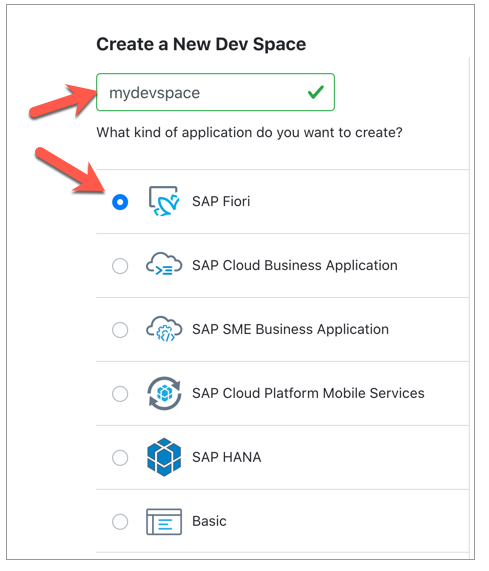
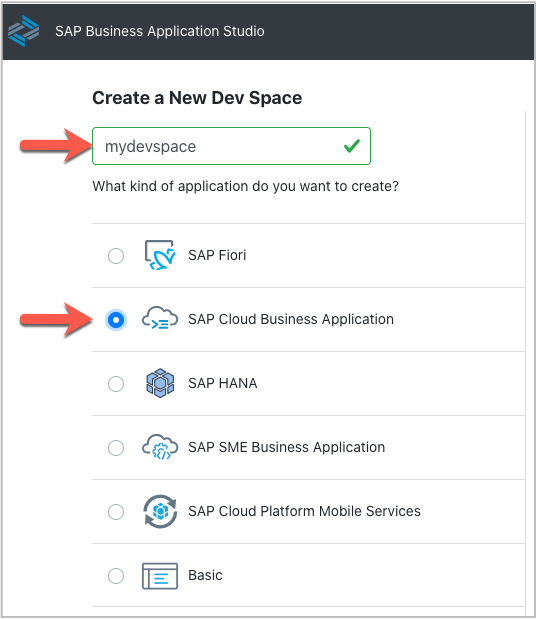
ex0 readme

Changed region(s): [[0.0, 0.0, 1.0, 1.0]]

diff --git a/exercises/ex1/README.md b/exercises/ex1/README.md
@@ -55,6 +55,8 @@ data of a single instance of the main entity on the object page, too.
 
 ![](./images/image15.png)
 
+Finally add some attributes to the application project.\
+The **Module name** and the **Application namespace** should be as shown below to keep aligned with the following exercises.\
 (14) Enter as module name **incidents** (module name has to match exactly for
 some of the subsequent exercises to work properly)
 

diff --git a/exercises/ex0/README.md b/exercises/ex0/README.md
@@ -44,7 +44,7 @@ Click on the button **Create Dev Space**.
 
 ![Create Dev Space](../ex0/images/00_00_0030.png)
 
-Enter a name for your development space and select profile **SAP Fiori**.
+Enter a name for your development space and select application profile **SAP Cloud Business Application**.
 
 ![Select Profile](../ex0/images/00_00_0040.png)
 
